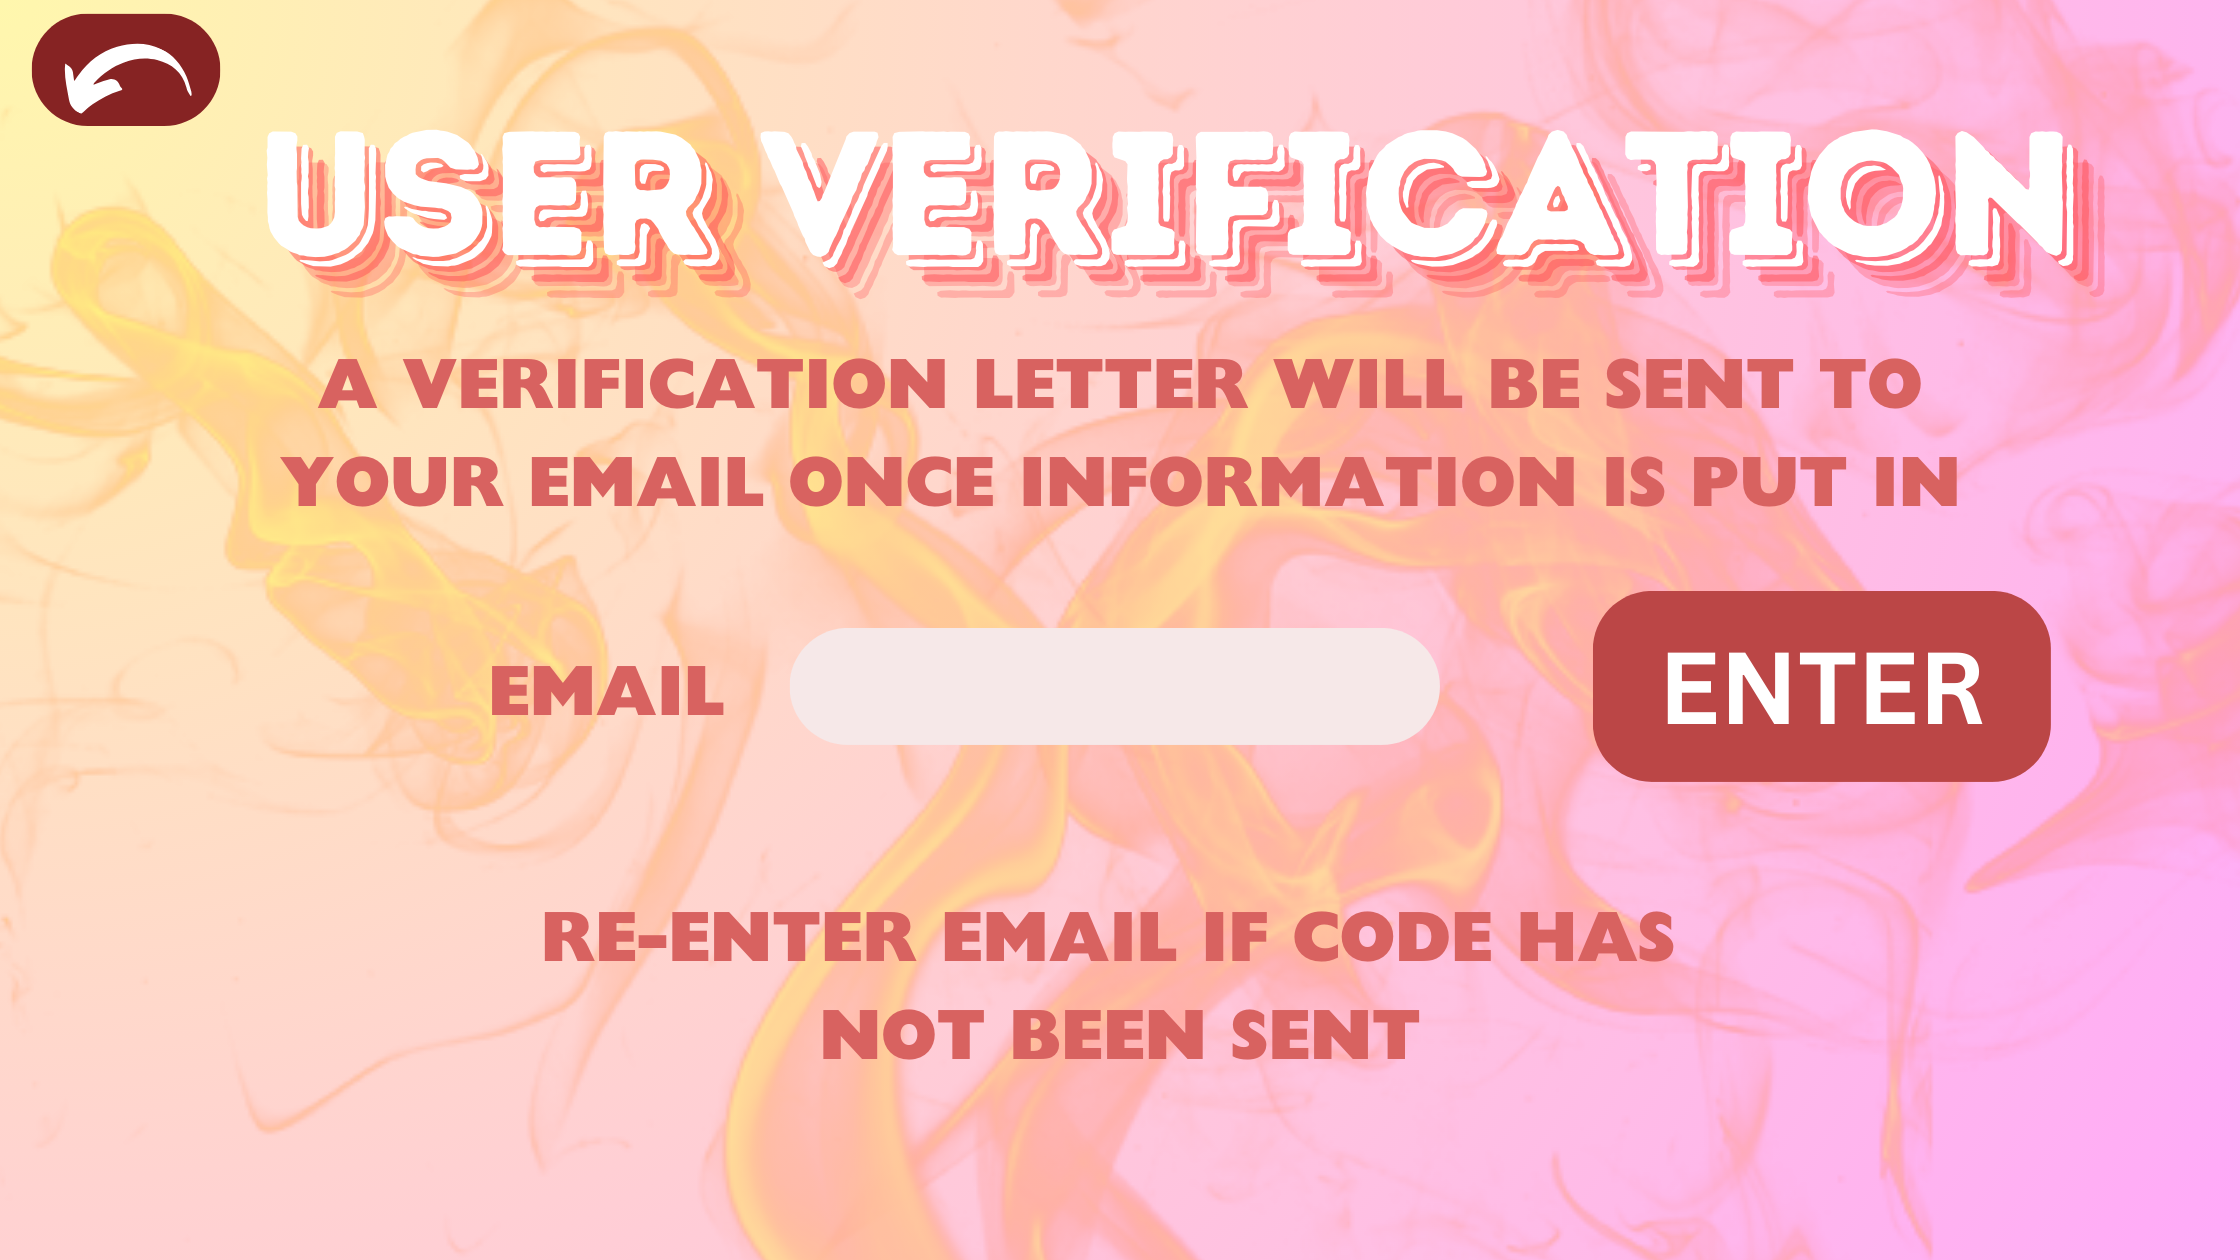
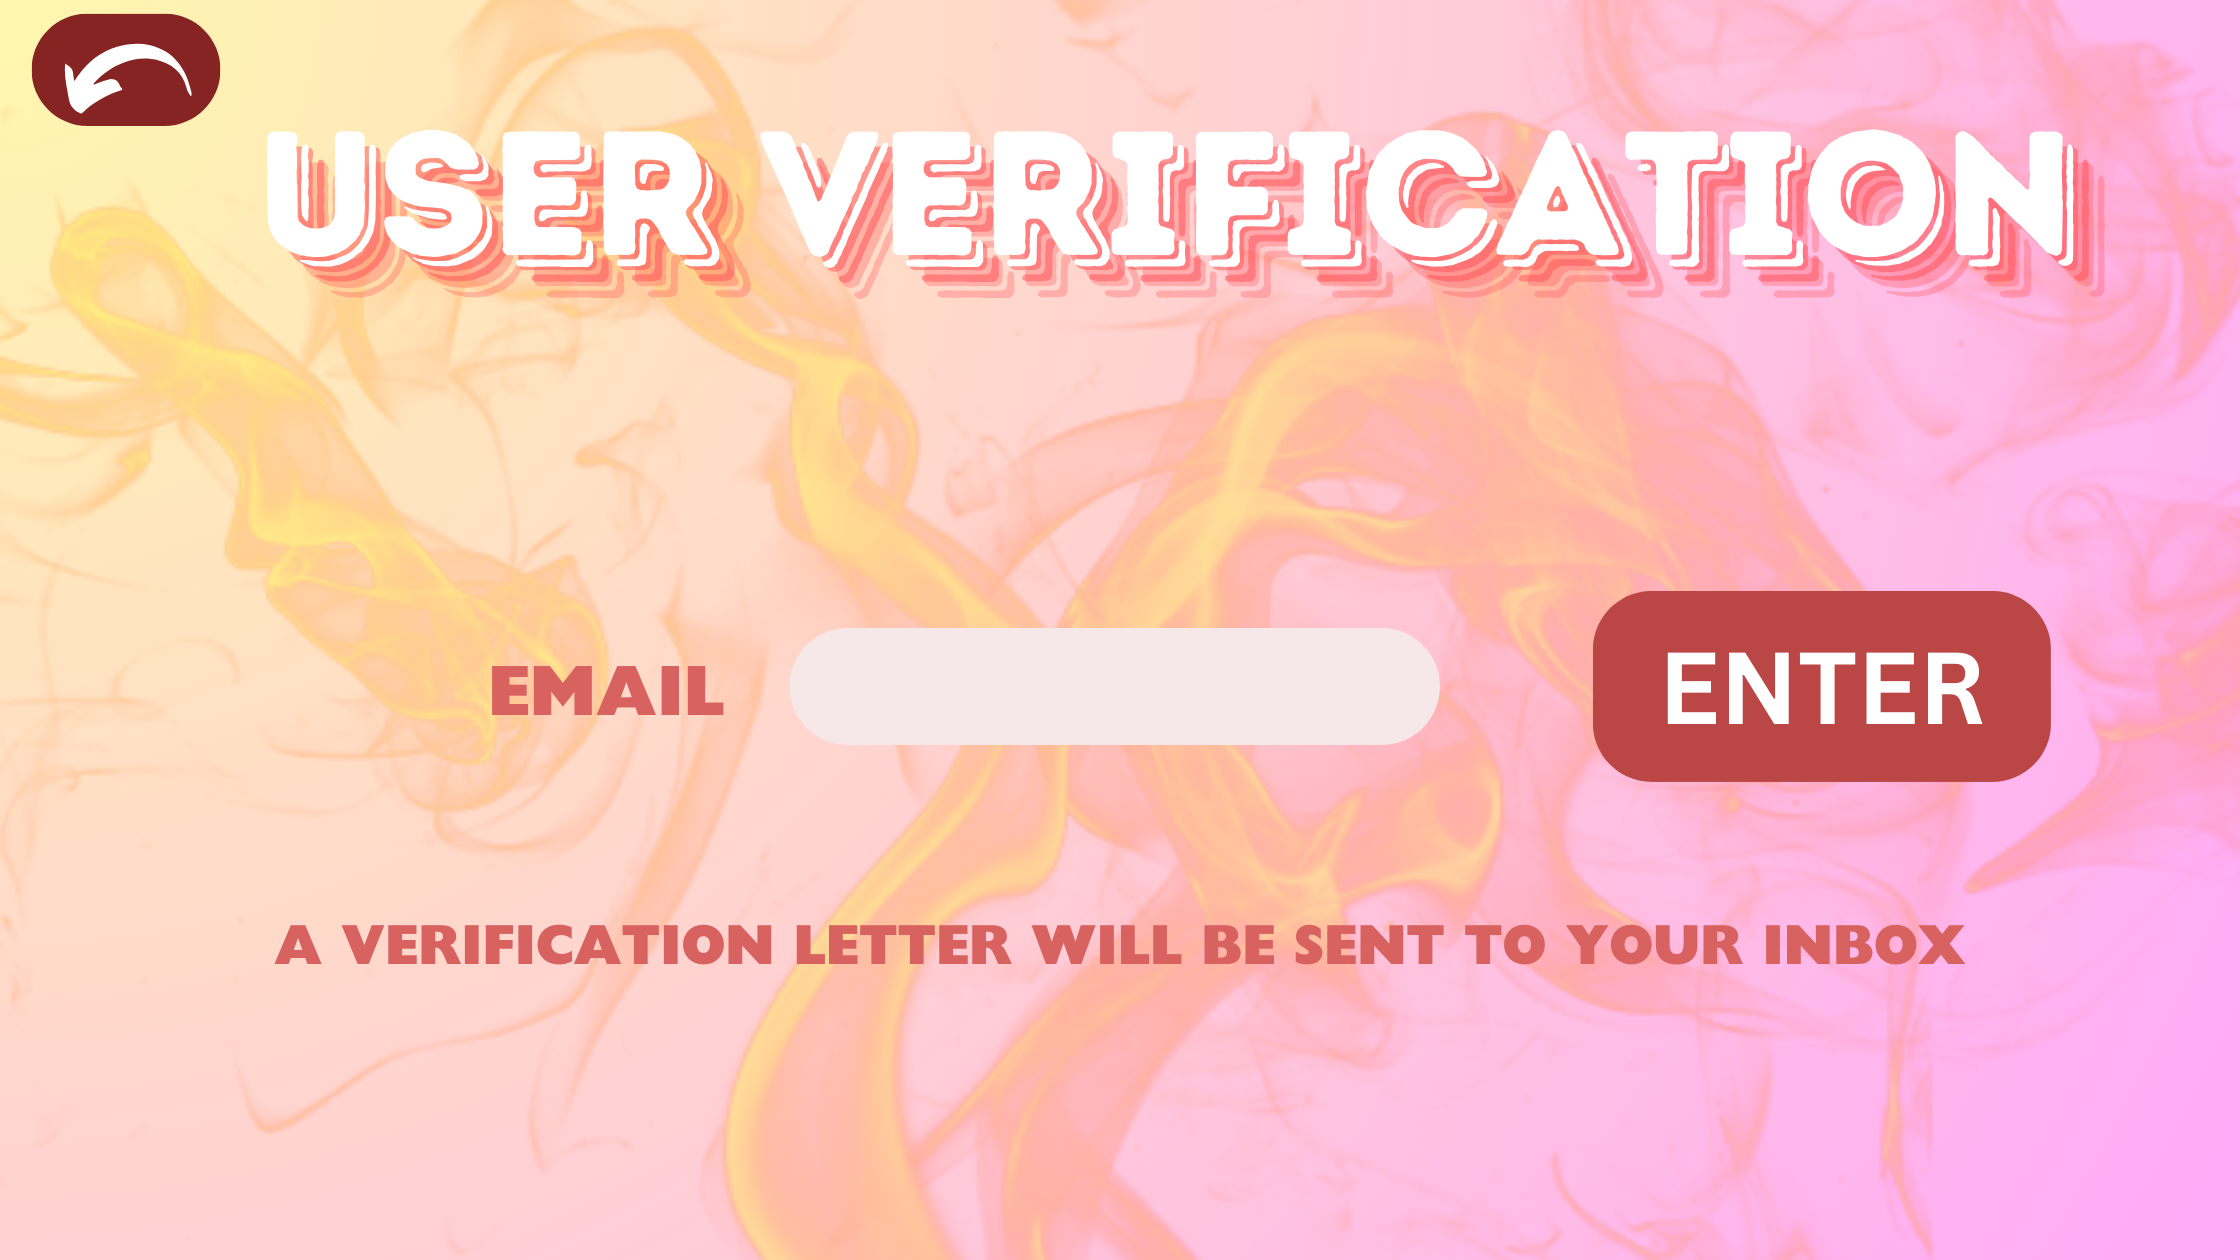
error code frame with resend button

Changed region(s): [[0.125, 0.2786, 0.875, 0.4024], [0.125, 0.7119, 0.875, 0.7738], [0.3438, 0.8048, 0.6562, 0.8667]]

diff --git a/src/EnterCodeFrame.java b/src/EnterCodeFrame.java
@@ -1,0 +1,86 @@
+package src;
+
+import javax.swing.*;
+import java.awt.*;
+import java.awt.event.ActionEvent;
+import java.awt.event.ActionListener;
+
+public class EnterCodeFrame {
+
+  JFrame enterCodeFrame = new JFrame();
+  Font font = new Font("Ariel", Font.BOLD, 175);
+  ActionListener listener;
+  JTextField code = new JTextField();
+
+  public EnterCodeFrame(final VerificationCode v, String to) {
+
+    listener = new ActionListener() {
+
+      VerificationCode veri = v;
+
+      @Override
+      public void actionPerformed(ActionEvent e) {
+        Object source = e.getSource();
+        if (source instanceof JButton) {
+          JButton button = (JButton) source;
+          String currentItem = "";
+          switch (button.getText()) {
+            case "back":
+              new verificationFrame();
+              enterCodeFrame.setVisible(false);
+              break;
+            case "enter":
+              if (code.getText().toLowerCase().equals(veri.getCode())) {
+                new ChangePasswordFrame();
+                enterCodeFrame.setVisible(false);
+              } else {
+                JOptionPane.showMessageDialog(null, "Incorrect code");
+              }
+              break;
+            case "resend":
+              veri = new VerificationCode();
+              String correctCode = veri.getCode();
+              AppOpener.openGmail();
+              SendEmail.send(to, "Spice-E-Store Verification", "Here is your verification code: " + correctCode.toUpperCase());
+          }
+        }
+      }
+    };
+
+
+    ImageIcon enterCodeFrameImg = ImageIconScaler.scaleImageIcon(new ImageIcon("frameDesigns/enterCodeFrame.png"), 1536, 864);
+    JLabel enterCodeFrameImgLabel = new JLabel(enterCodeFrameImg);
+
+    JPanel backgroundPanel = new JPanel();
+    SwingSetup.setupPanel(backgroundPanel, enterCodeFrameImgLabel, 0, 0, 1536, 864);
+
+    JPanel objectPanel = new JPanel();
+    SwingSetup.setupPanel(objectPanel, 0, 0, 1536, 864, null, false);
+
+    JButton backButton = new JButton("back");
+    SwingSetup.setupButton(backButton, objectPanel, 20, 10, 200, 100, false, false);
+    backButton.addActionListener(listener);
+
+    JButton enterButton = new JButton("enter");
+    SwingSetup.setupButton(enterButton, objectPanel, 990, 350, 475, 175, false, false);
+    enterButton.addActionListener(listener);
+
+    JButton resendButton = new JButton("resend");
+    SwingSetup.setupButton(resendButton, objectPanel, 500, 735, 550, 90, false, false);
+    resendButton.addActionListener(listener);
+
+    code = new
+
+            JTextField();
+    SwingSetup.setupTextField(code, objectPanel, 150, 350, 735, 160, true);
+    code.setFont(font);
+
+    SwingSetup.setupFrame(enterCodeFrame, 0, 0, 1536, 864, false, null);
+
+    enterCodeFrame.add(backgroundPanel);
+    enterCodeFrame.add(objectPanel);
+    enterCodeFrame.setVisible(true);
+
+
+  }
+}

diff --git a/src/VerificationCode.java b/src/VerificationCode.java
@@ -1,0 +1,35 @@
+package src;
+
+import java.util.Random;
+
+public class VerificationCode {
+  Random rand = new Random();
+
+  int codeDigit;
+  String code;
+  static int numCodes;
+
+  public VerificationCode() {
+    numCodes++;
+    code = "";
+    //array of letters in the alphabet without the letters that look like numbers (like o)
+    String[] alphabet = {"a", "b", "c", "d", "e", "f", "g", "h", "i", "j", "k", "l", "m", "n", "p", "q", "r", "s", "t", "u", "v", "w", "x", "y", "z"};
+    for (int i = 1; i <= 6; i++) {
+      int typeOfChar = rand.nextInt(0, 2);
+      if (typeOfChar == 0) {
+        codeDigit = rand.nextInt(0, 10);
+        code += codeDigit;
+      }
+      if (typeOfChar == 1) {
+        codeDigit = rand.nextInt(0, 25);
+        code += alphabet[codeDigit];
+      }
+    }
+    //System.out.println(code.toUpperCase());
+  }
+
+  public String getCode() {
+    return code;
+  }
+
+}

diff --git a/src/verificationFrame.java b/src/verificationFrame.java
@@ -28,8 +28,13 @@ public class verificationFrame {
               break;
             case "enter":
               if (Reader.isInSystem(email.getText())) {
-                SendEmail.send(email.getText(), "Verification", "here is your verification code:" + "12345");
+                verificationFrame.setVisible(false);
+                VerificationCode v = new VerificationCode();
+                new EnterCodeFrame(v, email.getText());
+                String code = v.getCode();
                 AppOpener.openGmail();
+                SendEmail.send(email.getText(), "Spice-E-Store Verification", "Here is your verification code: " + code.toUpperCase());
+
               }
               else {
                 JOptionPane.showMessageDialog(null, "This email is not linked to an account");

diff --git a/src/ChangePasswordFrame.java b/src/ChangePasswordFrame.java
@@ -1,0 +1,4 @@
+package src;
+
+public class ChangePasswordFrame {
+}
